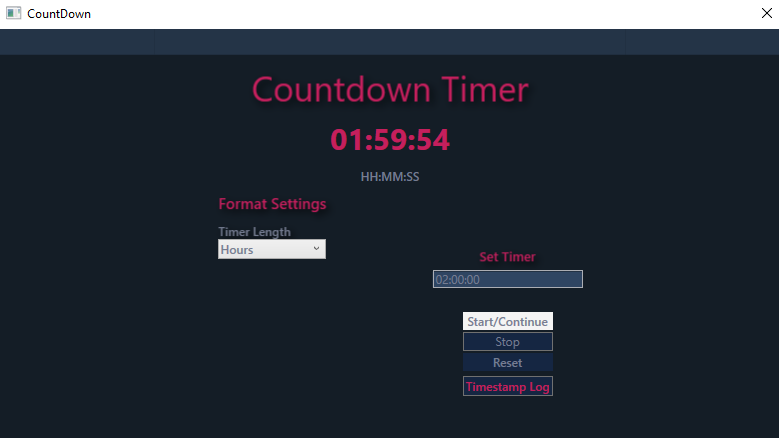
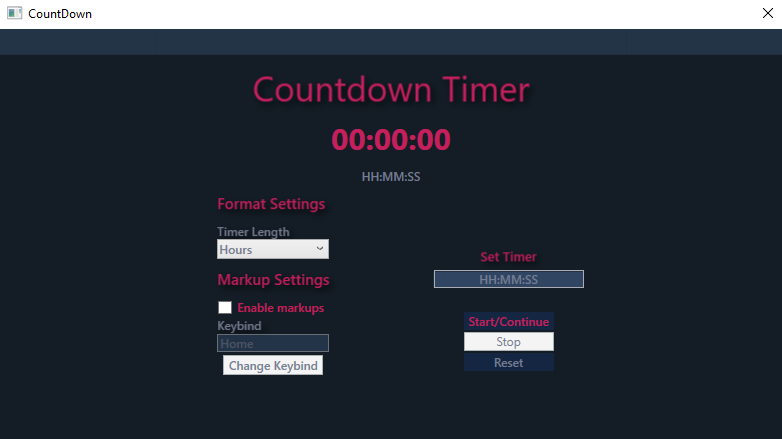
Updated pictures and readme

diff --git a/README.md b/README.md
@@ -2,16 +2,16 @@
 Stream Challenge countdown software made with C#/WPF.
 <h3>Usage</h3>
 <p><b>Working with the timer</b></p>
-![image](https://user-images.githubusercontent.com/74548230/130964718-09e69a58-740b-4a3b-b7d5-c6c97c432d5c.png)
+<img src="Images/Image1.png" align="center" width=600 height=350>
 <p>Starting the timer is really self explanatory. Select the time format you want to use for the timer. After that write in the time you want to countdown from. Press start :)</p>
 <p>To stop the timer simply press the stop button. If you want to reset everything press reset. </p>
 <p><b>Adding the timer to OBS</b></p>
 <p>1. Open obs and add a new text source like this</p>
-![image](https://user-images.githubusercontent.com/74548230/130965175-fb54f343-735f-4143-b883-49857e18e026.png)
+<img src="Images/image2.png" align="center" width=600 height=425>
 <p>2. After adding the text source right click on it and select properties. In the properties there should be a checkbox "Read from a file". Click that and a box to select a file should appear. </p>
-![image](https://user-images.githubusercontent.com/74548230/130965539-5d8a5cc1-7dd0-414b-94b5-84effaeb8af7.png)
-<p>3. Click the browse button and find the folder where you have the Countdown.exe installed. Now when you start the timer there should appear a folder named "txt. Inside there should be a "Time.txt" file. Select that file and press "Open". Now the timer should be shown in the text. Press OK and there you have it!
-![image](https://user-images.githubusercontent.com/74548230/130966115-00f3e6af-b72e-480a-beb5-6fa552e6885d.png)
+<img src="Images/image3.png" align="center" width=600 height=425>
+<p>3. Click the browse button and find the folder where you have the Countdown.exe installed. Now when you start the timer there should appear a folder named "txt. Inside there should be a "Time.txt" file. Select that file and press "Open". Now the timer should be shown in the text. Press OK and there you have it!</p>
+<img src="Images/image4.png" align="center" width=600 height=425>
 <p><b>Markup stream highlights easily!</b></p>
-<p>When you have the timer running press the HOME button to markup the current time of the counter. It captures the keystroke globally so it works while you are playing any games thanks to Larry57:s repository here: https://gist.github.com/Larry57/5365740. If you still want to check that the markup worked please open the Timestamp Log which shows the last time a markup was taken. After you are done with the stream you can check the marked up times in the txt folder which we looked at in the Obs timer setup. The txt file is named "Markup.txt".</p> 
+<p>If you want to markup the highlights of your stream into a txt file check the "Enable Markups" box to turn it on! You can define your custom hotkey that you would like to use for the markup. The markup feature captures the current time on the countdown and saves it into a file. It captures the keystroke globally so it works while you are playing any games thanks to Larry57:s repository here: https://gist.github.com/Larry57/5365740. After you are done with the stream you can check the marked up times in the txt folder which we looked at in the Obs timer setup. The txt file is named "Markup.txt".</p>
 <p><b>Happy streaming :)</b></p>
